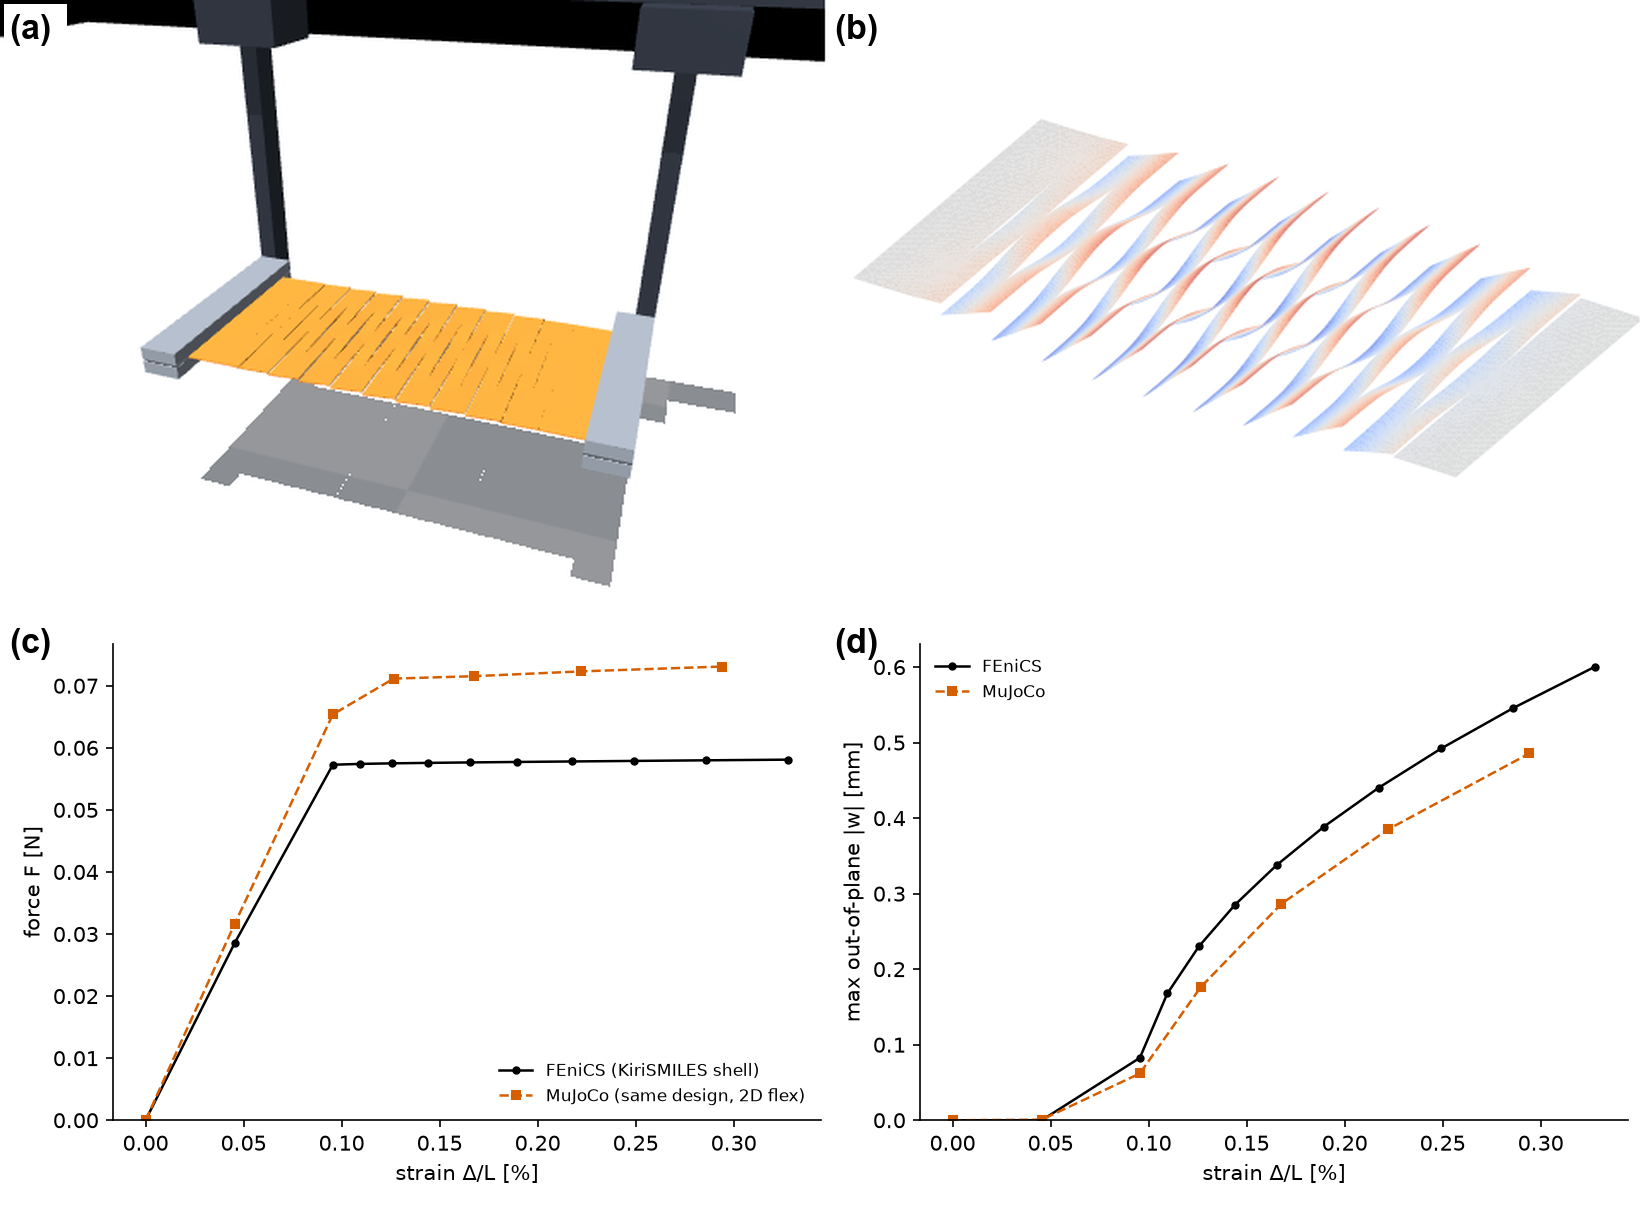
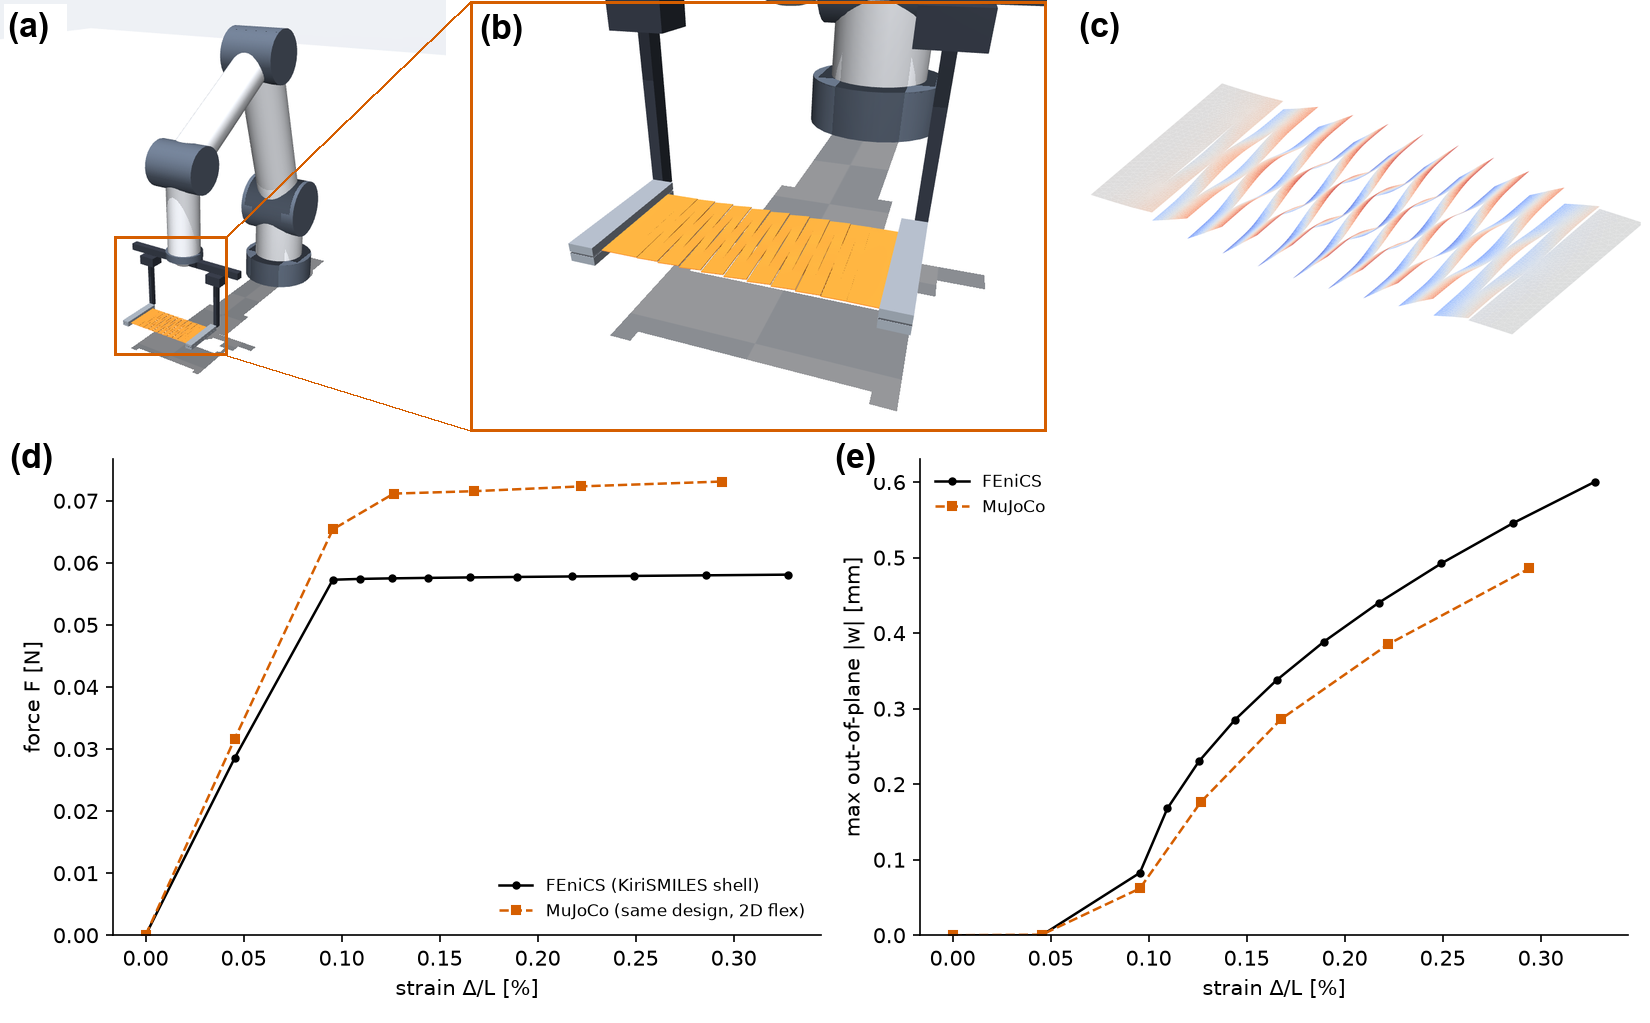
MuJoCo figure: robot-arm overview zooming into the gripper
scripts/mujoco_figure.py builds the paper figure in one command: an arm
(drawn, not simulated) holding the gripper and sheet, a close-up of the
boxed region, the sheet coloured by out-of-plane displacement, and the
FEniCS/MuJoCo comparison plots. scene_xml takes optional extra worldbody
and asset MJCF and a floor size; its defaults give the same scene as before.

diff --git a/scripts/mujoco_figure.py b/scripts/mujoco_figure.py
@@ -1,0 +1,169 @@
+"""Paper figure of the MuJoCo export: a robot arm holding the gripper and the sheet, a close-up of the sheet in the
+gripper, the sheet coloured by out-of-plane displacement, and the force and deflection against FEniCS.
+
+The arm is an illustration of where such a sheet would sit on a robot: it is drawn, not simulated. Its wrist holds the
+gripper's rail; the jaws and the sheet are posed exactly as in scripts/mujoco_gif.py, from a relaxed state of
+scripts/mujoco_check.py. The comparison plots are read from <tag>.png of mujoco_check.py --plot.
+
+    python scripts/mujoco_figure.py --mesh results/runs/mjc_wfnu38_mesh_1_2/mesh.vtk
+        --states results/mujoco_check/wfnu38_v4_states --plots results/mujoco_check/wfnu38_v4.png --step 6 --zscale 10
+        --out results/mujoco_check/fig_mujoco.png
+"""
+from __future__ import annotations
+
+import argparse
+import sys
+from pathlib import Path
+from typing import Any
+
+import numpy as np
+
+ROOT = Path(__file__).resolve().parent.parent
+sys.path.insert(0, str(ROOT))
+sys.path.insert(0, str(ROOT / "scripts"))
+from kirigami import mjcf as K  # noqa: E402
+from kirigami.argtypes import count, positive  # noqa: E402
+from mujoco_gif import look, scene_xml, sheet_panel  # noqa: E402
+
+RENDER = (960, 720)                                   # the scene's offscreen buffer (scene_xml)
+ARM = 'rgba="0.86 0.87 0.89 1"'        # the arm's links
+JOINT = 'rgba="0.32 0.36 0.42 1"'      # its joint housings and base
+SKY = '<texture type="skybox" builtin="gradient" rgb1="1 1 1" rgb2="0.88 0.9 0.93" width="512" height="512"/>'
+
+
+def arm_xml(L: float, W: float, Dmax: float) -> str:
+    """A six-axis arm on the table behind the sheet, its wrist flange on top of the gripper rail, plus the camera
+    "overview" that sees all of it. Metres; the rail of scene_xml is at y = W + 17 mm, z = 104 mm."""
+    s = 1e-3
+    cx, yr, zr = (L + Dmax) * s / 2, W * s + 0.017, 0.104 + 0.006      # rail centre top
+    floor = -0.06                                                       # the table top of scene_xml
+    base = np.array([cx, yr + 0.34, floor])
+    sh = base + [0, 0, 0.16]                                            # shoulder
+    el = np.array([cx, yr + 0.24, 0.42])                                # elbow
+    wr = np.array([cx, yr, 0.27])                                       # wrist
+    fl = np.array([cx, yr, zr + 0.012])                                 # flange
+
+    def seg(a: np.ndarray, b: np.ndarray, r: float) -> str:
+        return (f'<geom type="capsule" fromto="{a[0]:.4f} {a[1]:.4f} {a[2]:.4f} {b[0]:.4f} {b[1]:.4f} {b[2]:.4f}" '
+                f'size="{r}" {ARM}/>')
+
+    def joint(p: np.ndarray, r: float, half: float) -> str:             # a joint housing, its axis along x
+        return (f'<geom type="cylinder" fromto="{p[0] - half:.4f} {p[1]:.4f} {p[2]:.4f} {p[0] + half:.4f} {p[1]:.4f} '
+                f'{p[2]:.4f}" size="{r}" {JOINT}/>')
+
+    centre = np.array([cx, yr + 0.12, 0.17])
+    return f"""
+    <geom type="cylinder" fromto="{base[0]} {base[1]} {floor} {base[0]} {base[1]} {floor + 0.05}" size="0.07" {JOINT}/>
+    {seg(base + [0, 0, 0.05], sh, 0.05)}
+    {joint(sh, 0.058, 0.06)}
+    {seg(sh, el, 0.042)}
+    {joint(el, 0.05, 0.052)}
+    {seg(el, wr, 0.034)}
+    {joint(wr, 0.04, 0.045)}
+    {seg(wr, fl, 0.028)}
+    <geom type="cylinder" fromto="{fl[0]} {fl[1]} {fl[2]} {fl[0]} {fl[1]} {zr}" size="0.032" {JOINT}/>
+    <geom type="box" size="0.03 0.012 0.004" pos="{cx} {yr} {zr - 0.004}" material="dark"/>
+    <camera name="overview" {look(centre + [0.62, -0.95, 0.42], centre)} fovy="40"/>"""
+
+
+def project(m: Any, d: Any, cam: str, pts: np.ndarray, size: tuple[int, int]) -> np.ndarray:
+    """Pixel (column, row) of world points pts (n, 3) in the image of camera `cam` (MjModel m, MjData d after
+    mj_forward)."""
+    i = m.camera(cam).id
+    R = d.cam_xmat[i].reshape(3, 3)                     # columns: camera right, up, back
+    v = (pts - d.cam_xpos[i]) @ R
+    w, h = size
+    f = (h / 2) / np.tan(np.radians(m.cam_fovy[i]) / 2)
+    return np.column_stack([w / 2 + f * v[:, 0] / -v[:, 2], h / 2 - f * v[:, 1] / -v[:, 2]])
+
+
+def main() -> None:
+    p = argparse.ArgumentParser()
+    p.add_argument("--mesh", required=True)
+    p.add_argument("--states", required=True, help="folder of <step>_D<Delta>.npy from mujoco_check.py")
+    p.add_argument("--plots", required=True, help="<tag>.png of mujoco_check.py --plot")
+    p.add_argument("--step", type=count, default=6, help="the state shown: 1 is the first file in --states")
+    p.add_argument("--L", type=positive, default=120.0)
+    p.add_argument("--W", type=positive, default=60.0)
+    p.add_argument("--zscale", type=positive, default=10.0, help="out-of-plane scale of the coloured sheet")
+    p.add_argument("--out", required=True)
+    a = p.parse_args()
+    for f in (a.mesh, a.plots):
+        if not Path(f).is_file():
+            p.error(f"no file {f}")
+    files = sorted(Path(a.states).glob("*_D*.npy")) if Path(a.states).is_dir() else []
+    if len(files) < a.step:
+        p.error(f"{a.states} has {len(files)} states, fewer than --step {a.step}")
+    import mujoco
+    from PIL import Image, ImageDraw, ImageFont
+
+    x, c = K.read_vtk(a.mesh)
+    side = np.where(x[:, 0] < 1e-6, -1, np.where(x[:, 0] > a.L - 1e-6, 1, 0))
+    f = files[a.step - 1]
+    D = float(f.stem.split("_D")[1])
+    U = np.zeros((len(x), 3))
+    U[side == 1, 0] = D
+    U[side == 0] = np.load(f).astype(float)
+
+    m = mujoco.MjModel.from_xml_string(scene_xml(x, c, a.L, a.W, D, extra=arm_xml(a.L, a.W, D), assets=SKY,
+                                                  floor=4.0))
+    d = mujoco.MjData(m)
+    slides = np.array([[m.jnt_qposadr[m.body_jntadr[m.body(f"n{i}").id] + k] for k in range(3)] for i in range(len(x))])
+    d.qpos[m.joint("pull").qposadr[0]] = D * 1e-3
+    d.qpos[slides] = U * 1e-3
+    mujoco.mj_forward(m, d)
+    r = mujoco.Renderer(m, height=RENDER[1], width=RENDER[0])
+    shots = {}
+    for cam in ("overview", "wide"):
+        r.update_scene(d, camera=cam)
+        shots[cam] = Image.fromarray(r.render().copy())
+    # the part of the overview shown in the close-up: the sheet, the jaws and the rail
+    Lm, Wm = (a.L + D) * 1e-3, a.W * 1e-3
+    box = np.array([[xx, yy, zz] for xx in (-0.014, Lm + 0.014) for yy in (-0.005, Wm + 0.025) for zz in (-0.006, 0.12)])
+    uv = project(m, d, "overview", box, RENDER)
+    (u0, v0), (u1, v1) = uv.min(0) - 6, uv.max(0) + 6
+
+    wmax = float(np.abs(U[:, 2]).max()) or 1.0
+    lim = ((-2, a.L + D + 2), (-2, a.W + 2), (-a.zscale * wmax - 1, a.zscale * wmax + 1))
+    sheet = Image.fromarray(sheet_panel(x, c, U, (960, 720), lim, wmax, a.zscale))
+    plots = Image.open(a.plots).convert("RGB")
+    plots = plots.crop((0, 40, plots.width, plots.height))            # drop the blank title band
+
+    # top row: overview | close-up | coloured sheet, all of one height, as wide as the plots together
+    over = shots["overview"].crop((150, 60, 810, 700))                  # square-ish crop around the arm
+    u0, u1, v0, v1 = u0 - 150, u1 - 150, v0 - 60, v1 - 60
+    top = [over, shots["wide"], sheet]
+    gap = 24
+    H = int((plots.width - 2 * gap) / sum(im.width / im.height for im in top))
+    sc = H / over.height
+    top = [im.resize((int(im.width * H / im.height), H), Image.Resampling.LANCZOS) for im in top]
+    W_out = plots.width
+    out = Image.new("RGB", (W_out, H + plots.height), "white")
+    xs = [0, top[0].width + gap, top[0].width + top[1].width + 2 * gap]
+    for im, x0 in zip(top, xs):
+        out.paste(im, (x0, 0))
+    out.paste(plots, (0, H))
+
+    dr = ImageDraw.Draw(out)
+    col = (213, 94, 0)
+    rect = (u0 * sc, v0 * sc, u1 * sc, v1 * sc)
+    dr.rectangle(rect, outline=col, width=3)
+    x1 = xs[1]
+    dr.line((rect[2], rect[1], x1, 2), fill=col, width=2)                # zoom lines to the close-up's corners
+    dr.line((rect[2], rect[3], x1, H - 3), fill=col, width=2)
+    dr.rectangle((x1, 1, x1 + top[1].width - 1, H - 2), outline=col, width=3)
+    font: ImageFont.FreeTypeFont | ImageFont.ImageFont
+    try:
+        font = ImageFont.truetype("arialbd.ttf", 34)
+    except OSError:
+        font = ImageFont.load_default()
+    for t, xy in [("(a)", (xs[0] + 8, 6)), ("(b)", (xs[1] + 10, 8)), ("(c)", (xs[2] + 8, 6)),
+                  ("(d)", (10, H + 4)), ("(e)", (W_out // 2 + 10, H + 4))]:
+        dr.rectangle((xy[0] - 4, xy[1] - 2, xy[0] + 58, xy[1] + 40), fill="white")
+        dr.text(xy, t, fill="black", font=font)
+    out.save(a.out)
+    print(f"wrote {a.out} {out.size}; state {f.name} (pull {D} mm)")
+
+
+if __name__ == "__main__":
+    main()

diff --git a/scripts/mujoco_gif.py b/scripts/mujoco_gif.py
@@ -36,8 +36,11 @@ def look(pos: Sequence[float] | np.ndarray, target: Sequence[float] | np.ndarray
     return f'pos="{p0[0]:.4f} {p0[1]:.4f} {p0[2]:.4f}" xyaxes="{" ".join(f"{v:.4f}" for v in (*xa, *ya))}"'
 
 
-def scene_xml(x: np.ndarray, cells: np.ndarray, L: float, W: float, Dmax: float) -> str:
-    """Gripper + sheet, in metres. Every sheet node is a body with three slides (posed, not simulated)."""
+def scene_xml(x: np.ndarray, cells: np.ndarray, L: float, W: float, Dmax: float, extra: str = "",
+              assets: str = "", floor: float = 1.0) -> str:
+    """Gripper + sheet, in metres. Every sheet node is a body with three slides (posed, not simulated).
+    `extra` and `assets`: more MJCF for the worldbody and the assets (scripts/mujoco_figure.py adds a robot arm, a
+    camera and a sky); `floor`: half the side of the floor (m)."""
     s = 1e-3
     Lm, Wm, Dm = L * s, W * s, Dmax * s
     jaw, t, rail_z = 0.012, 0.004, 0.09                     # jaw depth along x, plate thickness, rail height (m)
@@ -63,20 +66,22 @@ def scene_xml(x: np.ndarray, cells: np.ndarray, L: float, W: float, Dmax: float)
     <headlight ambient="0.35 0.35 0.35" diffuse="0.6 0.6 0.6"/></visual>
   <asset>
     <texture name="grid" type="2d" builtin="checker" rgb1="0.93 0.94 0.96" rgb2="0.86 0.88 0.91" width="512" height="512"/>
-    <material name="grid" texture="grid" texrepeat="12 12"/>
+    <material name="grid" texture="grid" texrepeat="{12 * floor:g} {12 * floor:g}"/>
     <material name="metal" rgba="0.55 0.58 0.62 1" specular="0.6" shininess="0.6"/>
     <material name="dark" rgba="0.18 0.2 0.24 1"/>
     <material name="sheet" rgba="0.93 0.55 0.2 1"/>
+    {assets}
   </asset>
   <worldbody>
     <light pos="{centre[0]} {centre[1] - 0.2} 0.5" dir="0 0.3 -1" directional="true" castshadow="true"/>
     <light pos="{centre[0]} {centre[1] - 0.1} -0.3" dir="0 0.3 1" diffuse="0.35 0.35 0.35"/>
-    <geom type="plane" size="1 1 0.01" pos="{centre[0]} {centre[1]} -0.06" material="grid"/>
+    <geom type="plane" size="{floor:g} {floor:g} 0.01" pos="{centre[0]} {centre[1]} -0.06" material="grid"/>
     <geom type="box" size="{Lm / 2 + Dm / 2 + 0.05} 0.006 0.006" pos="{centre[0]} {Wm + 0.017} {rail_z + 0.014}" material="dark"/>
     <camera name="wide" {look(centre + [0.07, -0.19, 0.12], centre + [0, 0.005, 0.01])} fovy="45"/>
     {finger("jaw0", 0.0, -1, "")}
     {finger("jaw1", Lm, 1, '<joint name="pull" type="slide" axis="1 0 0"/>')}
     {bodies}
+    {extra}
   </worldbody>
   <deformable>
     <flex name="sheet" dim="2" radius="0.0002" material="sheet" body="{' '.join(f'n{i}' for i in range(len(x)))}"
